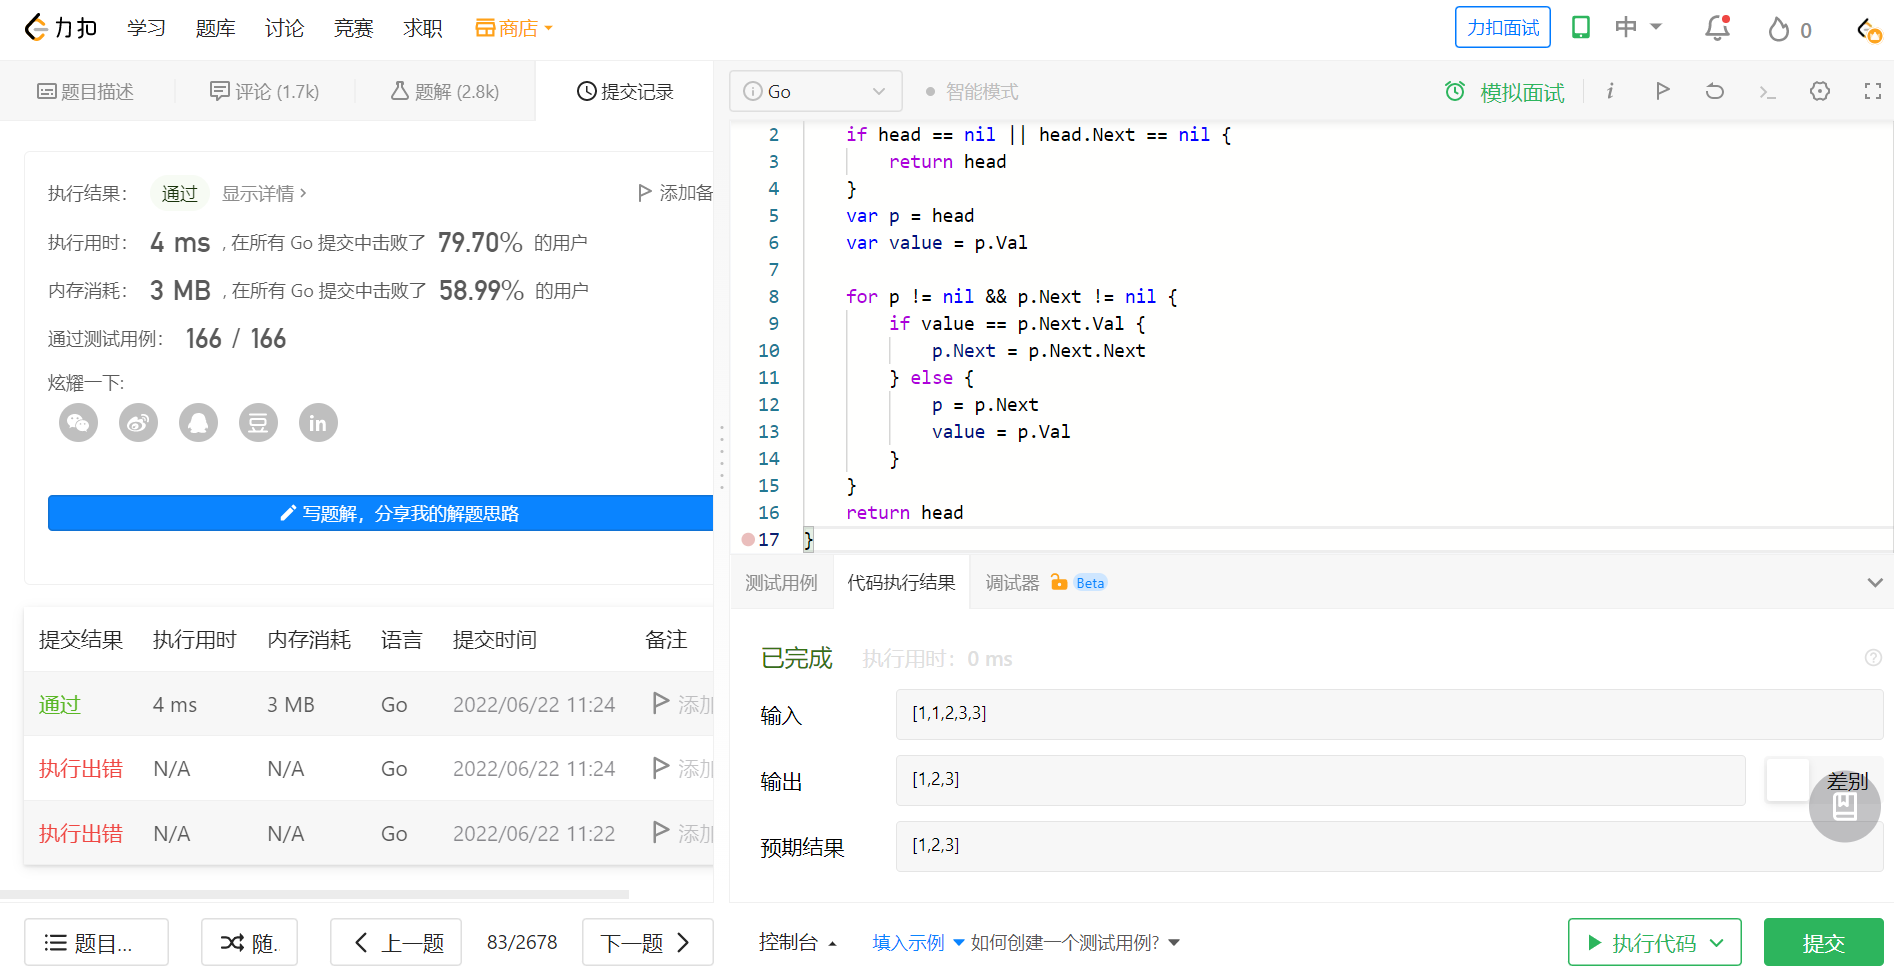
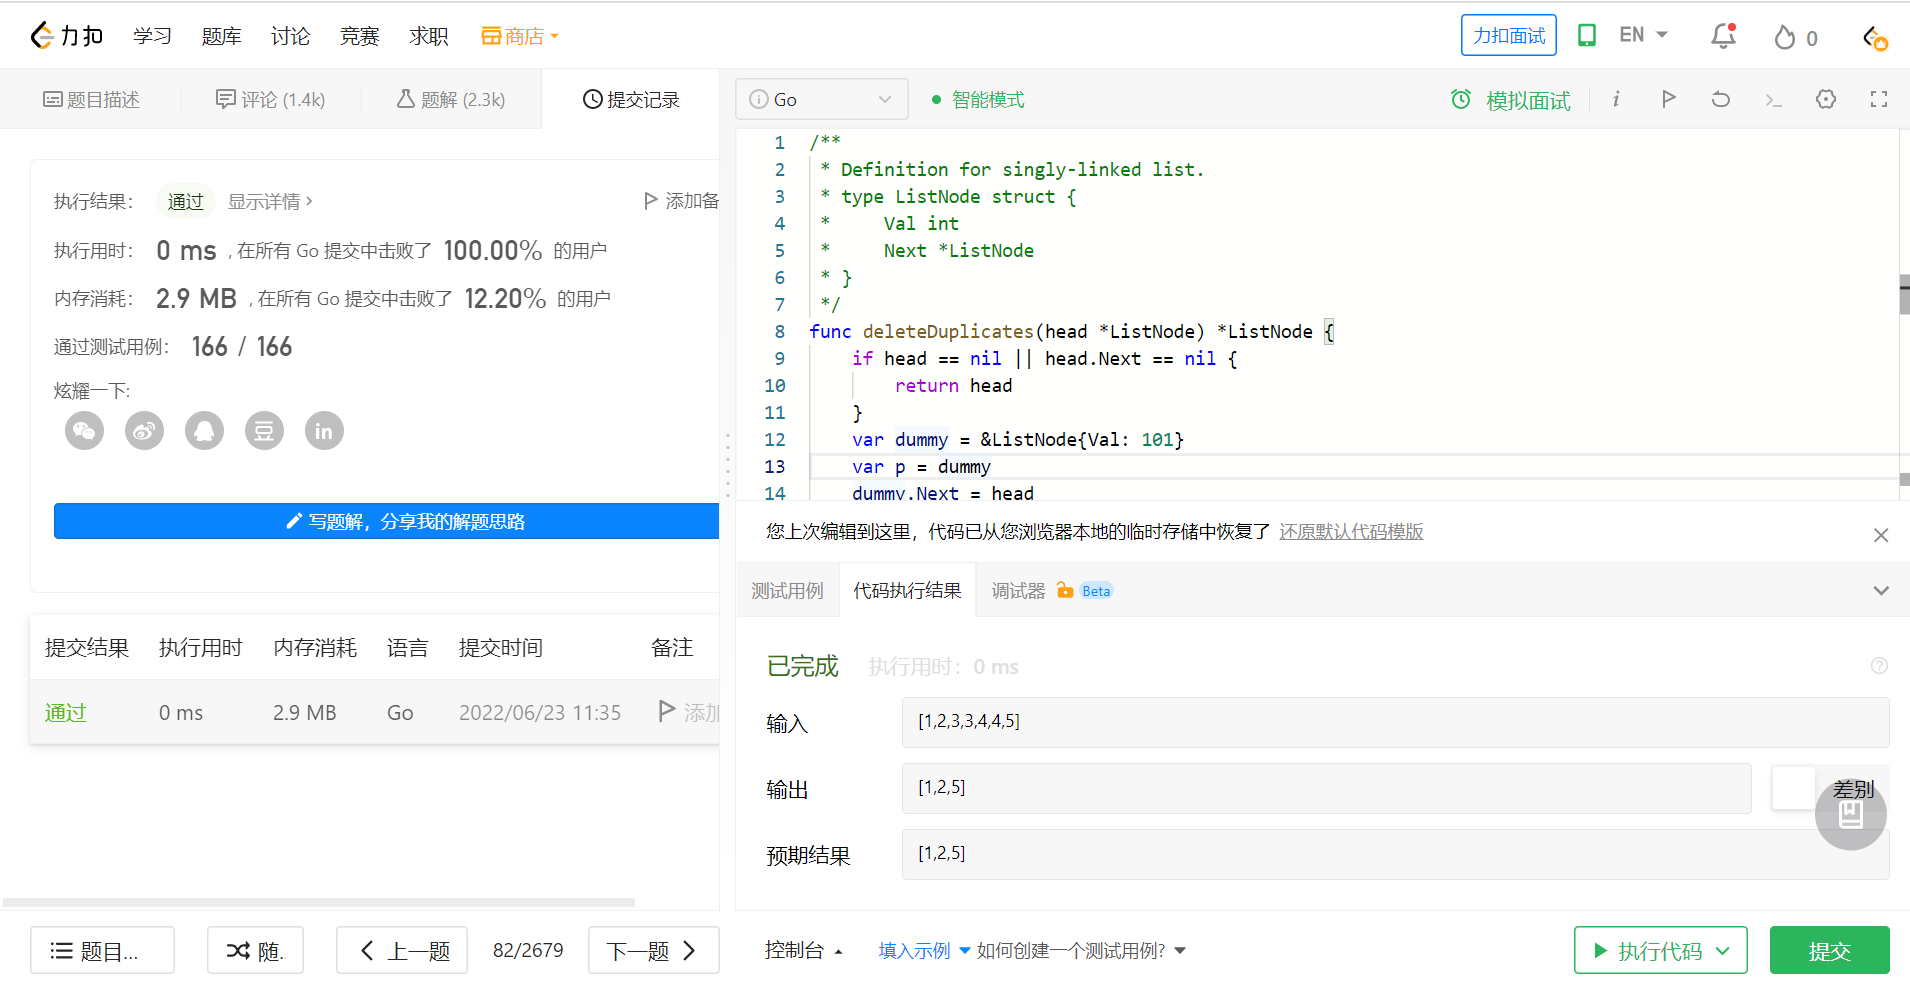
update 82, 83 and add 85

diff --git a/algorithm/leetcode/company/microsoft/83/main.go b/algorithm/leetcode/company/microsoft/83/main.go
@@ -1,66 +1,24 @@
-package main
+package _3
 
-import "fmt"
-
-func main() {
-	heights := []int{2, 1, 5, 6, 2, 3}
-	fmt.Println(largestRectangleArea(heights))
-}
-
-func largestRectangleArea(heights []int) int {
-	var n = len(heights)
-	if n == 0 {
-		return 0
+func deleteDuplicates(head *ListNode) *ListNode {
+	if head == nil || head.Next == nil {
+		return head
 	}
-	if n == 1 {
-		return heights[0]
-	}
-	var res = 0
-	var stack = make([]int, n)
-	var p = -1
-	for i := 0; i < n; i++ {
-		if p != -1 && heights[stack[p]] > heights[i] {
-			index := stack[p]
-			height := heights[index]
-			p--
-			for p != -1 && heights[stack[p]] == height {
-				p--
-			}
-			var width = 0
-			if p == -1 {
-				width = i
-			} else {
-				width = i - stack[p] - 1
-			}
-			res = max(res, height*width)
-		}
-		p++
-		stack[p] = i
-	}
+	var p = head
+	var value = p.Val
 
-	for p != -1 {
-		index := stack[p]
-		height := heights[index]
-		p--
-		for p != -1 && heights[stack[p]] == height {
-			p--
-		}
-		var width = 0
-		if p == -1 {
-			width = n
+	for p != nil && p.Next != nil {
+		if value == p.Next.Val {
+			p.Next = p.Next.Next
 		} else {
-			width = n - stack[p] - 1
+			p = p.Next
+			value = p.Val
 		}
-		res = max(res, height*width)
 	}
-	return res
-
+	return head
 }
 
-func max(a, b int) int {
-	if a >= b {
-		return a
-	} else {
-		return b
-	}
+type ListNode struct {
+	Val  int
+	Next *ListNode
 }

diff --git a/algorithm/leetcode/company/microsoft/85/main.go b/algorithm/leetcode/company/microsoft/85/main.go
@@ -1,0 +1,75 @@
+package main
+
+func maximalRectangle(matrix [][]byte) int {
+	var res = 0
+	var heights = make([]int, len(matrix[0]))
+	for i := 0; i < len(matrix); i++ {
+		for j := 0; j < len(matrix[0]); j++ {
+			if matrix[i][j] == '1' {
+				heights[j] += 1
+			} else {
+				heights[j] = 0
+			}
+		}
+		ans := largestRectangleArea(heights)
+		res = max(ans, res)
+	}
+	return res
+}
+
+func largestRectangleArea(heights []int) int {
+	var n = len(heights)
+	if n == 0 {
+		return 0
+	}
+	if n == 1 {
+		return heights[0]
+	}
+	var res = 0
+	var stack = make([]int, n)
+	var p = -1
+	for i := 0; i < n; i++ {
+		for p != -1 && heights[stack[p]] > heights[i] {
+			index := stack[p]
+			height := heights[index]
+			p--
+			for p != -1 && heights[stack[p]] == height {
+				p--
+			}
+			var width = 0
+			if p == -1 {
+				width = i
+			} else {
+				width = i - stack[p] - 1
+			}
+			res = max(res, width*height)
+		}
+		p++
+		stack[p] = i
+	}
+
+	for p != -1 {
+		index := stack[p]
+		height := heights[index]
+		p--
+		for p != -1 && heights[stack[p]] == height {
+			p--
+		}
+		var width = 0
+		if p == -1 {
+			width = n
+		} else {
+			width = n - stack[p] - 1
+		}
+		res = max(res, width*height)
+	}
+	return res
+}
+
+func max(a, b int) int {
+	if a >= b {
+		return a
+	} else {
+		return b
+	}
+}

diff --git a/algorithm/leetcode/company/microsoft/82/main.go b/algorithm/leetcode/company/microsoft/82/main.go
@@ -4,18 +4,22 @@ func deleteDuplicates(head *ListNode) *ListNode {
 	if head == nil || head.Next == nil {
 		return head
 	}
-	var p = head
-	var value = p.Val
-
+	var dummy = &ListNode{Val: 101}
+	var p = dummy
+	dummy.Next = head
 	for p != nil && p.Next != nil {
-		if value == p.Next.Val {
-			p.Next = p.Next.Next
+		if p.Next.Next != nil && p.Next.Next.Val == p.Next.Val {
+			value := p.Next.Val
+			p1 := p.Next.Next.Next
+			for p1 != nil && p1.Val == value {
+				p1 = p1.Next
+			}
+			p.Next = p1
 		} else {
 			p = p.Next
-			value = p.Val
 		}
 	}
-	return head
+	return dummy.Next
 }
 
 type ListNode struct {
